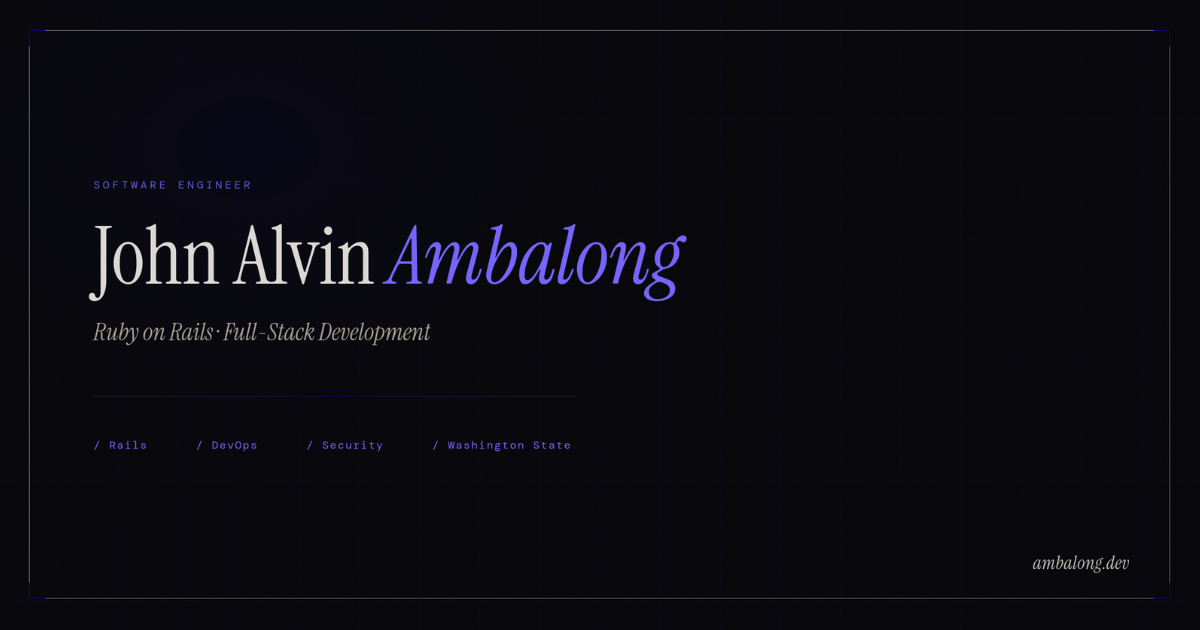
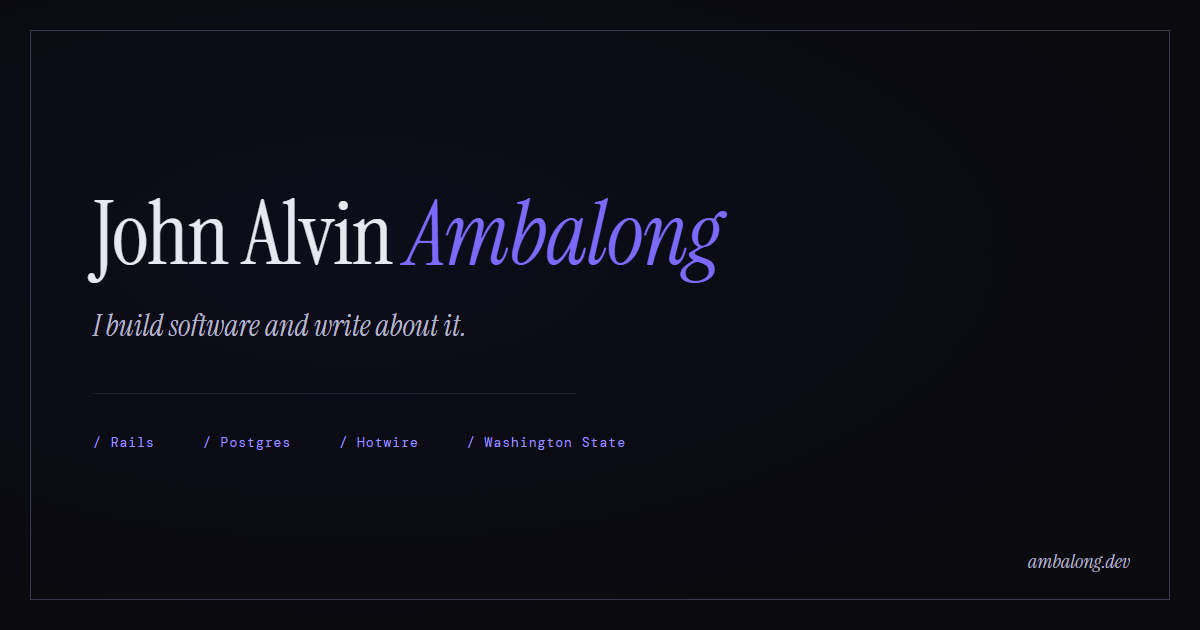
fix: replace social card image

diff --git a/scripts/og-card.html b/scripts/og-card.html
@@ -1,0 +1,36 @@
+<!doctype html>
+<html lang="en">
+<head>
+<meta charset="utf-8" />
+<title>og-card</title>
+<link rel="preconnect" href="https://fonts.googleapis.com" />
+<link rel="preconnect" href="https://fonts.gstatic.com" crossorigin />
+<link href="https://fonts.googleapis.com/css2?family=DM+Mono:wght@400&family=Instrument+Serif:ital@0;1&display=swap" rel="stylesheet" />
+<style>
+  :root { --bg: #0a0a0f; --text: #e8e8f0; --mid: #b4b4c8; --accent: #7c6aff; --accent-text: #9d8fff; --border: #1e1e2e; }
+  * { box-sizing: border-box; margin: 0; padding: 0; }
+  html, body { width: 1200px; height: 630px; background: var(--bg); overflow: hidden; }
+  .card { position: relative; width: 1200px; height: 630px; background: radial-gradient(ellipse at 30% 40%, #0d0d1a 0%, var(--bg) 70%); }
+  .frame { position: absolute; inset: 30px; border: 1px solid #3a3a4e; }
+  .content { position: absolute; left: 93px; top: 190px; }
+  h1 { font-family: 'Instrument Serif', serif; font-weight: 400; font-size: 88px; line-height: 1; color: var(--text); letter-spacing: -0.01em; }
+  h1 em { color: var(--accent); }
+  .tagline { margin-top: 28px; font-family: 'Instrument Serif', serif; font-style: italic; font-size: 30px; color: var(--mid); }
+  .rule { margin-top: 48px; width: 483px; height: 1px; background: var(--border); }
+  .tags { margin-top: 40px; display: flex; gap: 48px; font-family: 'DM Mono', monospace; font-size: 13px; letter-spacing: 0.08em; color: var(--accent-text); }
+  .url { position: absolute; right: 70px; bottom: 56px; font-family: 'Instrument Serif', serif; font-style: italic; font-size: 20px; color: var(--mid); }
+</style>
+</head>
+<body>
+<div class="card">
+  <div class="frame"></div>
+  <div class="content">
+    <h1>John Alvin <em>Ambalong</em></h1>
+    <p class="tagline">I build software and write about it.</p>
+    <div class="rule"></div>
+    <div class="tags"><span>/ Rails</span><span>/ Postgres</span><span>/ Hotwire</span><span>/ Washington State</span></div>
+  </div>
+  <div class="url">ambalong.dev</div>
+</div>
+</body>
+</html>
